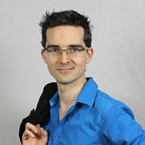
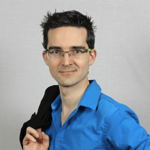
Fix wrong face image sizes

diff --git a/_graaliens/hana_ajakan.md b/_graaliens/hana_ajakan.md
@@ -4,7 +4,7 @@ last_name: Ajakan
 status: phd
 is_alumni: false
 joined_year: 2014
-face_picture: images/faces/hajakan.png
+face_picture: images/faces/hajakan.jpeg
 linkedin: https://www.linkedin.com/in/hana-ajakan-9a4379b2/
 scholar: https://scholar.google.ca/citations?user=jalwnN8AAAAJ
 github: https://github.com/haajakan

diff --git a/_graaliens/frederik_paradis.md b/_graaliens/frederik_paradis.md
@@ -4,7 +4,7 @@ last_name: Paradis
 status: phd
 is_alumni: false
 joined_year: 2017
-face_picture: images/faces/fparadis.png
+face_picture: images/faces/generic.png
 linkedin: https://www.linkedin.com/in/frederik-paradis/
 github: https://github.com/freud14/
 ---
